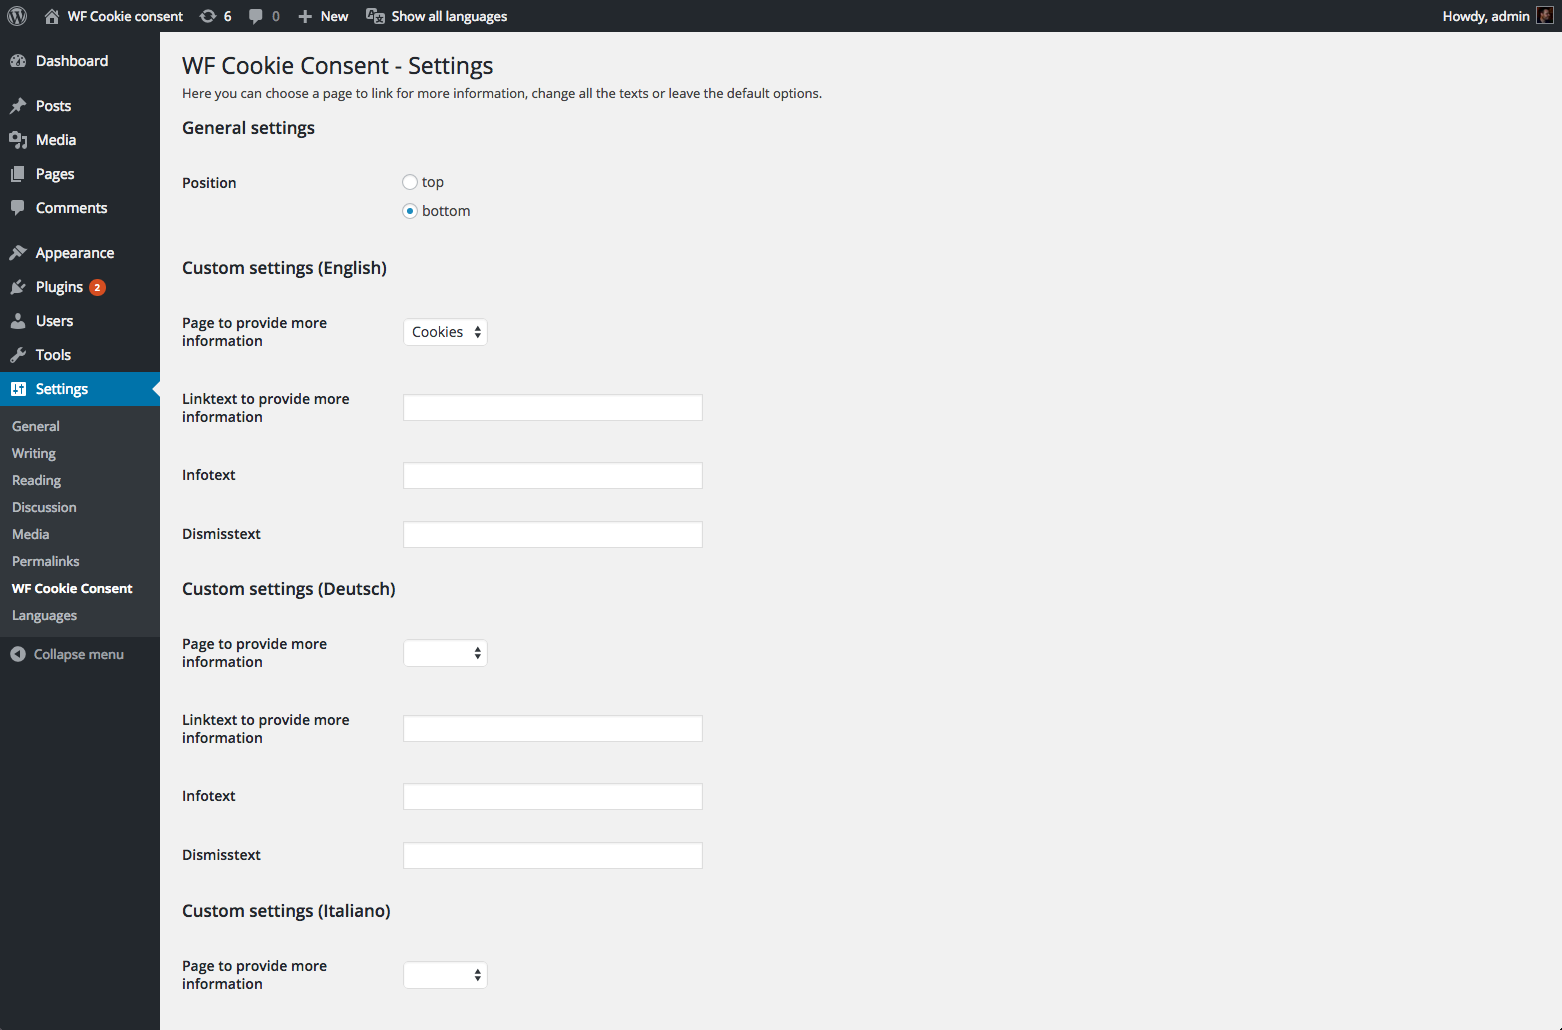
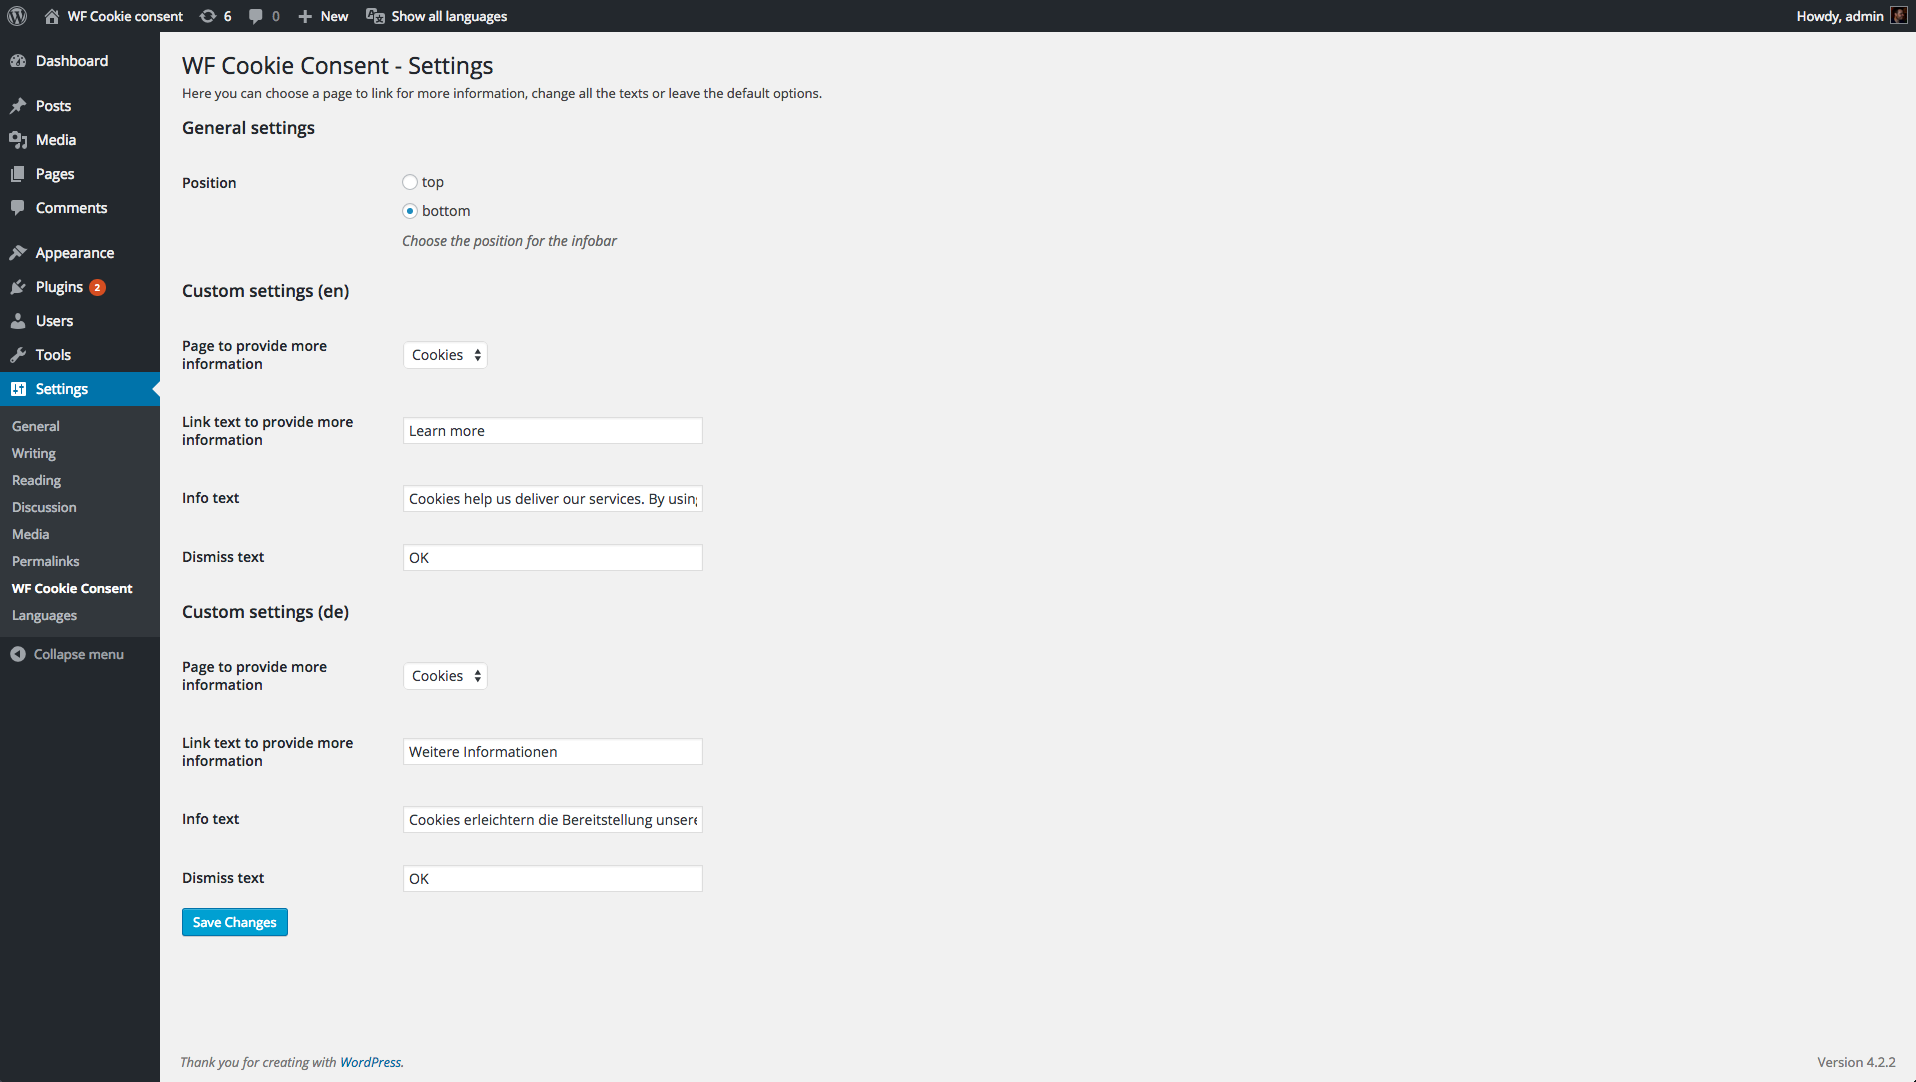
tagging version 0.8.5 - Improved compatibility with other plugins
git-svn-id: https://plugins.svn.wordpress.org/wf-cookie-consent/tags/0.8.5@1172076 b8457f37-d9ea-0310-8a92-e5e31aec5664

diff --git a/wf-cookie-consent.php b/wf-cookie-consent.php
@@ -3,7 +3,7 @@
 	Plugin Name: WF Cookie Consent
 	Plugin URI: http://www.wunderfarm.com/plugins/wf-cookie-consent
 	Description: The wunderfarm-way to show how your website complies with the EU Cookie Law.
-	Version: 0.8.3
+	Version: 0.8.5
 	License: GNU General Public License v2 or later
 	License URI: http://www.gnu.org/licenses/gpl-2.0.html
 	Author: wunderfarm
@@ -43,7 +43,7 @@
 	
 ?>
 	<script type="text/javascript">
-		document.addEventListener('DOMContentLoaded', function(event) { cookieChoices.showCookieBar({ linkHref: '<?php echo $linkHref; ?>', dismissText: '<?php echo $dismissText; ?>', position: '<?php echo $position; ?>', cookieText:'<?php echo $cookieText; ?>', linkText: '<?php echo $linkText; ?>', language: '<?php echo $language; ?>'}) });
+		document.addEventListener('DOMContentLoaded', function(event) { cookieChoices.showCookieBar({ linkHref: '<?php echo esc_js($linkHref); ?>', dismissText: '<?php echo esc_js($dismissText); ?>', position: '<?php echo esc_js($position); ?>', cookieText:'<?php echo esc_js($cookieText); ?>', linkText: '<?php echo esc_js($linkText); ?>', language: '<?php echo esc_js($language); ?>'}) });
 	</script>
 <?php
 
@@ -56,9 +56,9 @@
 */
 
 // add the admin options page
-add_action('admin_menu', 'plugin_admin_add_page');
+add_action('admin_menu', 'wf_admin_add_page');
 
-function plugin_admin_add_page() {
+function wf_admin_add_page() {
 	add_options_page('WF Cookie Consent Settings', 'WF Cookie Consent', 'manage_options', 'wf-cookieconsent', 'wf_cookieconsent_options_page');
 }
 
@@ -83,33 +83,34 @@ function wf_cookieconsent_options_page(){
 }
 
 // add the admin settings and such
-add_action('admin_init', 'plugin_admin_init');
+add_action('admin_init', 'wf_admin_init');
 
-function plugin_admin_init(){
+function wf_admin_init(){
 	register_setting( 'wf_cookieconsent_options', 'wf_cookieconsent_options' );
 
 	add_settings_section('plugin_main', 'General settings', '', 'wf-cookieconsent');
-	add_settings_field('wf_position', esc_html__('Position'), 'plugin_setting_radio', 'wf-cookieconsent', 'plugin_main', array( 'fieldname' => 'wf_position','radioFields' => array( 'top' , 'bottom') ) );
+	add_settings_field('wf_position', esc_html__('Position'), 'wf_setting_radio', 'wf-cookieconsent', 'plugin_main', array( 'fieldname' => 'wf_position', 'fielddescription' => 'Choose the position for the infobar', 'radioFields' => array( 'top' , 'bottom') ) );
 
 	foreach(wf_get_languages() as $lang){
 		add_settings_section('plugin_main_' . $lang, 'Custom settings (' . $lang . ')', '', 'wf-cookieconsent');
-		add_settings_field('wf_linkhref', esc_html__('Page to provide more information'), 'plugin_setting_page_selector', 'wf-cookieconsent', 'plugin_main_' . $lang, array( 'fieldname' => 'wf_linkhref', 'lang' => $lang ) );
-		add_settings_field('wf_linktext', esc_html__('Linktext to provide more information'), 'plugin_setting_string', 'wf-cookieconsent', 'plugin_main_' . $lang, array( 'fieldname' => 'wf_linktext', 'lang' => $lang ) );
-		add_settings_field('wf_cookietext', esc_html__('Infotext'), 'plugin_setting_string', 'wf-cookieconsent', 'plugin_main_' . $lang, array( 'fieldname' => 'wf_cookietext', 'lang' => $lang ) );
-		add_settings_field('wf_dismisstext', esc_html__('Dismisstext'), 'plugin_setting_string', 'wf-cookieconsent', 'plugin_main_' . $lang, array( 'fieldname' => 'wf_dismisstext', 'lang' => $lang ) );
+		add_settings_field('wf_linkhref', esc_html__('Page to provide more information'), 'wf_setting_page_selector', 'wf-cookieconsent', 'plugin_main_' . $lang, array( 'fieldname' => 'wf_linkhref', 'fielddescription' => '', 'lang' => $lang ) );
+		add_settings_field('wf_linktext', esc_html__('Link text to provide more information'), 'wf_setting_string', 'wf-cookieconsent', 'plugin_main_' . $lang, array( 'fieldname' => 'wf_linktext', 'fielddescription' => '', 'lang' => $lang ) );
+		add_settings_field('wf_cookietext', esc_html__('Info text'), 'wf_setting_string', 'wf-cookieconsent', 'plugin_main_' . $lang, array( 'fieldname' => 'wf_cookietext', 'fielddescription' => '', 'lang' => $lang ) );
+		add_settings_field('wf_dismisstext', esc_html__('Dismiss text'), 'wf_setting_string', 'wf-cookieconsent', 'plugin_main_' . $lang, array( 'fieldname' => 'wf_dismisstext', 'fielddescription' => '', 'lang' => $lang ) );
 	}
 }
 
-function plugin_setting_string($args) {
+function wf_setting_string($args) {
 	$options = get_option('wf_cookieconsent_options');
 	
 	if(empty($options[$args['lang']][$args['fieldname']]))
 		$options[$args['lang']][$args['fieldname']] = '';
 
 	echo "<input id='plugin_text_string' name='wf_cookieconsent_options[{$args['lang']}][{$args['fieldname']}]' size='40' type='text' value='{$options[$args['lang']][$args['fieldname']]}' />";
+	echo (empty($args['fielddescription']) ? '' :  "<p class='description'>". $args['fielddescription'] ."</p>");
 }
 
-function plugin_setting_page_selector($args) {
+function wf_setting_page_selector($args) {
 	$options = get_option('wf_cookieconsent_options');
 	
 	if(empty($options[$args['lang']][$args['fieldname']]))
@@ -119,9 +120,10 @@ function plugin_setting_page_selector($args) {
 		'name' => 'wf_cookieconsent_options['.$args['lang'].']['.$args['fieldname'].']',
 		'selected' => $options[$args['lang']][$args['fieldname']],
 	 	'show_option_none' => ' '));
+	echo (empty($args['fielddescription']) ? '' :  "<p class='description'>". $args['fielddescription'] ."</p>");
 }
 
-function plugin_setting_radio($args) {
+function wf_setting_radio($args) {
 	$options = get_option('wf_cookieconsent_options');
 	
 	if(empty($options[$args['fieldname']]))
@@ -130,11 +132,13 @@ function plugin_setting_radio($args) {
 	echo "<fieldset>";
 	if(!empty($args['radioFields'])) {
 		foreach ($args['radioFields'] as $radioField) {
-			echo "<input type='radio' id='' name='wf_cookieconsent_options[{$args['fieldname']}]' value='{$radioField}'" . ($radioField == $options[$args['fieldname']] ? 'checked' : '')."><label for=''>" . $radioField . "</label><br />";
+			echo "<input type='radio' id='wf_rad_" . $radioField . "' name='wf_cookieconsent_options[{$args['fieldname']}]' value='{$radioField}'" . ($radioField == $options[$args['fieldname']] ? 'checked' : '')."><label for='wf_rad_" . $radioField . "'>" . $radioField . "</label><br />";
 		}
 	}
+	echo (empty($args['fielddescription']) ? '' :  "<p class='description'>". $args['fielddescription'] ."</p>");
   	echo "</fieldset>";
 }
+
 
 /*
 * Helpers
